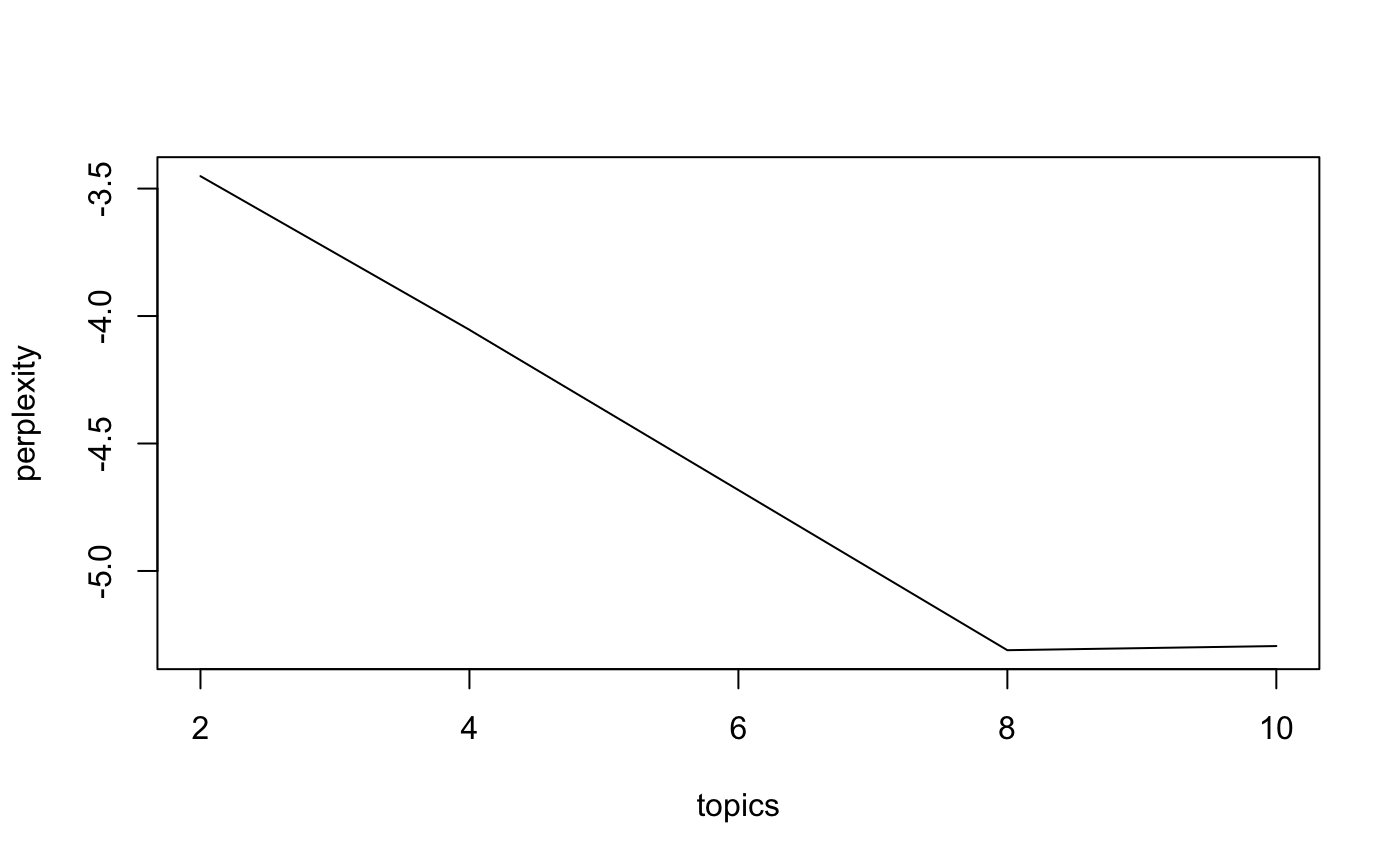
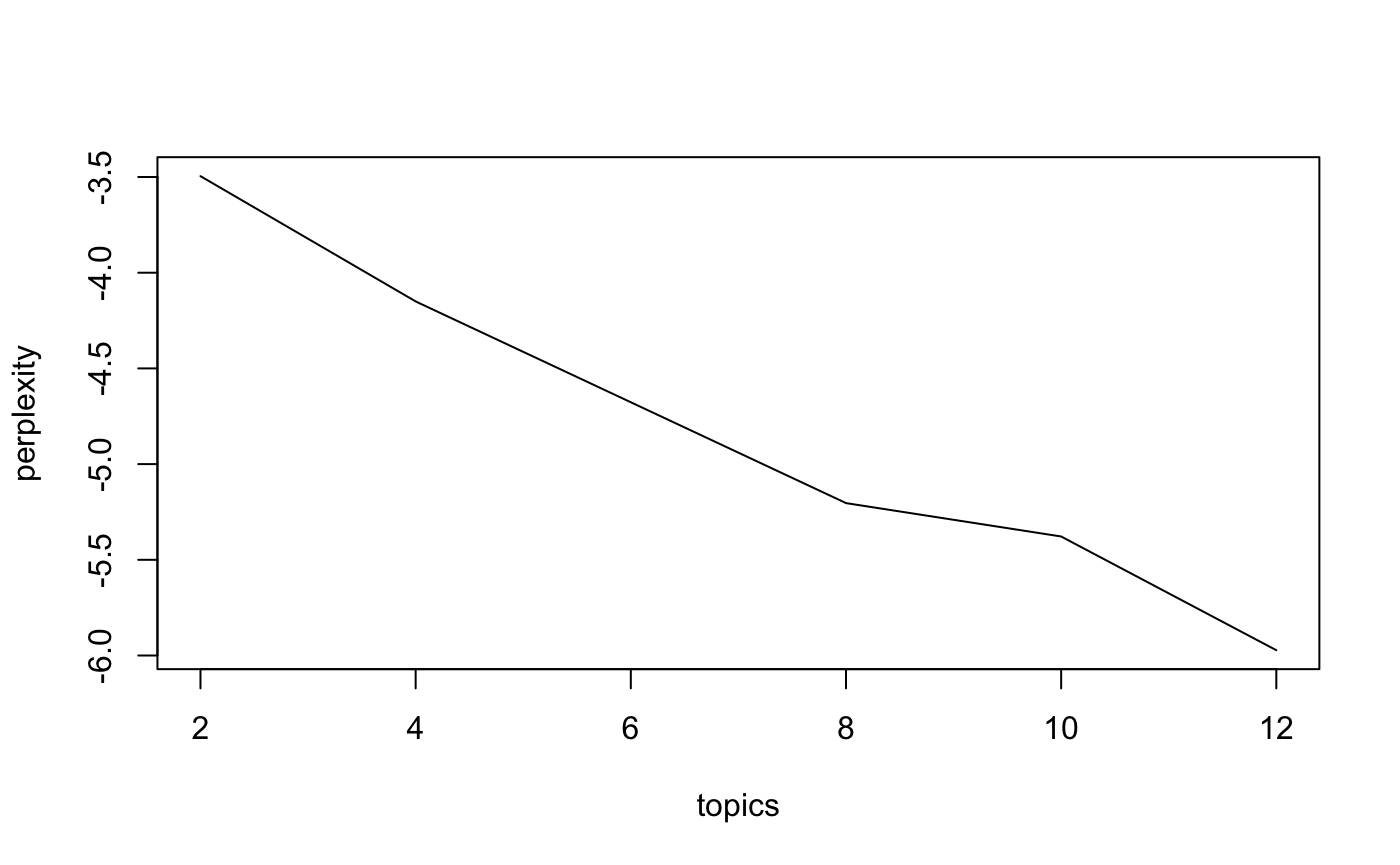
rebuilt site

diff --git a/docs/articles/coherence.html b/docs/articles/coherence.html
@@ -183,7 +183,7 @@
 <pre class="sourceCode r" id="cb3"><code class="sourceCode r"><a class="sourceLine" id="cb3-1" data-line-number="1">good_cm &lt;-<span class="st"> </span><span class="kw"><a href="../reference/topics.html">model_coherence</a></span>(<span class="dt">model =</span> good_lda_model, <span class="dt">corpus =</span> corpus_tfidf, <span class="dt">dictionary =</span> dictionary, <span class="dt">coherence =</span> <span class="st">'u_mass'</span>)</a>
 <a class="sourceLine" id="cb3-2" data-line-number="2">bad_cm &lt;-<span class="st"> </span><span class="kw"><a href="../reference/topics.html">model_coherence</a></span>(<span class="dt">model =</span> bad_lda_model, <span class="dt">corpus =</span> corpus_tfidf, <span class="dt">dictionary =</span> dictionary, <span class="dt">coherence =</span> <span class="st">'u_mass'</span>)</a></code></pre>
 <pre class="sourceCode r" id="cb4"><code class="sourceCode r"><a class="sourceLine" id="cb4-1" data-line-number="1">good_cm<span class="op">$</span><span class="kw">get_coherence</span>()</a>
-<a class="sourceLine" id="cb4-2" data-line-number="2"><span class="co">#&gt; -14.69227234932784</span></a>
+<a class="sourceLine" id="cb4-2" data-line-number="2"><span class="co">#&gt; -14.65541188495437</span></a>
 <a class="sourceLine" id="cb4-3" data-line-number="3">bad_cm<span class="op">$</span><span class="kw">get_coherence</span>()</a>
 <a class="sourceLine" id="cb4-4" data-line-number="4"><span class="co">#&gt; -14.669541729630868</span></a></code></pre>
 </div>
@@ -234,7 +234,7 @@ if(typeof(LDAvis) !== "undefined"){
          });
 }
 </script><pre class="sourceCode r" id="cb6"><code class="sourceCode r"><a class="sourceLine" id="cb6-1" data-line-number="1">good_cm<span class="op">$</span><span class="kw">get_coherence</span>()</a>
-<a class="sourceLine" id="cb6-2" data-line-number="2"><span class="co">#&gt; -14.69227234932784</span></a>
+<a class="sourceLine" id="cb6-2" data-line-number="2"><span class="co">#&gt; -14.65541188495437</span></a>
 <a class="sourceLine" id="cb6-3" data-line-number="3">bad_cm<span class="op">$</span><span class="kw">get_coherence</span>()</a>
 <a class="sourceLine" id="cb6-4" data-line-number="4"><span class="co">#&gt; -14.669541729630868</span></a></code></pre>
 </div>
@@ -244,14 +244,54 @@ if(typeof(LDAvis) !== "undefined"){
 <pre class="sourceCode r" id="cb7"><code class="sourceCode r"><a class="sourceLine" id="cb7-1" data-line-number="1">good_cm &lt;-<span class="st"> </span><span class="kw"><a href="../reference/topics.html">model_coherence</a></span>(<span class="dt">model =</span> good_lda_model, <span class="dt">texts =</span> texts, <span class="dt">dictionary =</span> dictionary, <span class="dt">coherence =</span> <span class="st">'c_v'</span>)</a>
 <a class="sourceLine" id="cb7-2" data-line-number="2">bad_cm &lt;-<span class="st"> </span><span class="kw"><a href="../reference/topics.html">model_coherence</a></span>(<span class="dt">model =</span> bad_lda_model, <span class="dt">texts =</span> texts, <span class="dt">dictionary =</span> dictionary, <span class="dt">coherence =</span> <span class="st">'c_v'</span>)</a></code></pre>
 <pre class="sourceCode r" id="cb8"><code class="sourceCode r"><a class="sourceLine" id="cb8-1" data-line-number="1">good_cm<span class="op">$</span><span class="kw">get_coherence</span>()</a>
-<a class="sourceLine" id="cb8-2" data-line-number="2"><span class="co">#&gt; 0.3838413553737203</span></a>
+<a class="sourceLine" id="cb8-2" data-line-number="2"><span class="co">#&gt; 0.38384135537372027</span></a>
 <a class="sourceLine" id="cb8-3" data-line-number="3">bad_cm<span class="op">$</span><span class="kw">get_coherence</span>()</a>
 <a class="sourceLine" id="cb8-4" data-line-number="4"><span class="co">#&gt; 0.38384135537372027</span></a></code></pre>
-</div>
-<div id="conclusion" class="section level2">
-<h2 class="hasAnchor">
-<a href="#conclusion" class="anchor"></a>Conclusion</h2>
 <p>Hence as we can see, the <code>u_mass</code> and <code>c_v</code> coherence for the good LDA model is much more (better) than that for the bad LDA model. This is because, simply, the good LDA model usually comes up with better topics that are more human interpretable. The <code>bad_lda_model</code> however fails to decipher between these two topics and comes up with topics which are not clear to a human. The <code>u_mass</code> and <code>c_v</code> topic coherences capture this wonderfully by giving the interpretability of these topics a number as we can see above. Hence this coherence measure can be used to compare difference topic models based on their human-interpretability.</p>
+<p>## Map</p>
+<p>You can also apply the <code>model_coherence</code> to multiple models at once using <code>map_coherence</code>.</p>
+<pre class="sourceCode r" id="cb9"><code class="sourceCode r"><a class="sourceLine" id="cb9-1" data-line-number="1"><span class="co"># create a model collection</span></a>
+<a class="sourceLine" id="cb9-2" data-line-number="2">models &lt;-<span class="st"> </span><span class="kw"><a href="https://www.rdocumentation.org/packages/base/topics/list">list</a></span>(good_lda_model, bad_lda_model)</a>
+<a class="sourceLine" id="cb9-3" data-line-number="3">(model_collection &lt;-<span class="st"> </span><span class="kw"><a href="../reference/map_model.html">as_model_collection</a></span>(models))</a>
+<a class="sourceLine" id="cb9-4" data-line-number="4"><span class="co">#&gt; ℹ A collection of 2 models.</span></a>
+<a class="sourceLine" id="cb9-5" data-line-number="5"></a>
+<a class="sourceLine" id="cb9-6" data-line-number="6"><span class="co"># compute topic coherence</span></a>
+<a class="sourceLine" id="cb9-7" data-line-number="7">model_collection &lt;-<span class="st"> </span><span class="kw"><a href="../reference/map_coherence.html">map_coherence</a></span>(model_collection, <span class="dt">corpus =</span> corpus_tfidf, <span class="dt">dictionary =</span> dictionary, <span class="dt">coherence =</span> <span class="st">'u_mass'</span>)</a>
+<a class="sourceLine" id="cb9-8" data-line-number="8"><span class="kw"><a href="../reference/map_coherence.html">get_coherence_data</a></span>(model_collection)</a>
+<a class="sourceLine" id="cb9-9" data-line-number="9"><span class="co">#&gt; # A tibble: 2 x 3</span></a>
+<a class="sourceLine" id="cb9-10" data-line-number="10"><span class="co">#&gt;   topics coherence coherence_model</span></a>
+<a class="sourceLine" id="cb9-11" data-line-number="11"><span class="co">#&gt;    &lt;int&gt;     &lt;dbl&gt; &lt;list&gt;         </span></a>
+<a class="sourceLine" id="cb9-12" data-line-number="12"><span class="co">#&gt; 1      2     -14.7 &lt;gns...CM&gt;     </span></a>
+<a class="sourceLine" id="cb9-13" data-line-number="13"><span class="co">#&gt; 2     10     -14.7 &lt;gns...CM&gt;</span></a></code></pre>
+</div>
+<div id="workflow" class="section level2">
+<h2 class="hasAnchor">
+<a href="#workflow" class="anchor"></a>Workflow</h2>
+<p>In the real world you will likely use the <code>map_*</code> functions to run and assess multiple models at once.</p>
+<pre class="sourceCode r" id="cb10"><code class="sourceCode r"><a class="sourceLine" id="cb10-1" data-line-number="1">models &lt;-<span class="st"> </span><span class="kw"><a href="../reference/map_model.html">map_model</a></span>(</a>
+<a class="sourceLine" id="cb10-2" data-line-number="2">  <span class="dt">num_topics =</span> <span class="kw"><a href="https://www.rdocumentation.org/packages/base/topics/c">c</a></span>(<span class="dv">2</span>, <span class="dv">4</span>, <span class="dv">8</span>, <span class="dv">10</span>),</a>
+<a class="sourceLine" id="cb10-3" data-line-number="3">  <span class="dt">corpus =</span> corpus_tfidf, </a>
+<a class="sourceLine" id="cb10-4" data-line-number="4">  <span class="dt">id2word =</span> dictionary</a>
+<a class="sourceLine" id="cb10-5" data-line-number="5">) </a>
+<a class="sourceLine" id="cb10-6" data-line-number="6"></a>
+<a class="sourceLine" id="cb10-7" data-line-number="7">models &lt;-<span class="st"> </span><span class="kw"><a href="../reference/map_coherence.html">map_coherence</a></span>(models, <span class="dt">corpus =</span> corpus_tfidf, <span class="dt">dictionary =</span> dictionary, <span class="dt">coherence =</span> <span class="st">'u_mass'</span>)</a>
+<a class="sourceLine" id="cb10-8" data-line-number="8"></a>
+<a class="sourceLine" id="cb10-9" data-line-number="9"><span class="kw"><a href="../reference/map_coherence.html">get_coherence_data</a></span>(models)</a>
+<a class="sourceLine" id="cb10-10" data-line-number="10"><span class="co">#&gt; # A tibble: 4 x 3</span></a>
+<a class="sourceLine" id="cb10-11" data-line-number="11"><span class="co">#&gt;   topics coherence coherence_model</span></a>
+<a class="sourceLine" id="cb10-12" data-line-number="12"><span class="co">#&gt;    &lt;int&gt;     &lt;dbl&gt; &lt;list&gt;         </span></a>
+<a class="sourceLine" id="cb10-13" data-line-number="13"><span class="co">#&gt; 1      2     -14.7 &lt;gns...CM&gt;     </span></a>
+<a class="sourceLine" id="cb10-14" data-line-number="14"><span class="co">#&gt; 2      4     -14.7 &lt;gns...CM&gt;     </span></a>
+<a class="sourceLine" id="cb10-15" data-line-number="15"><span class="co">#&gt; 3      8     -14.7 &lt;gns...CM&gt;     </span></a>
+<a class="sourceLine" id="cb10-16" data-line-number="16"><span class="co">#&gt; 4     10     -14.7 &lt;gns...CM&gt;</span></a>
+<a class="sourceLine" id="cb10-17" data-line-number="17"><span class="kw"><a href="../reference/map_model.html">get_perplexity_data</a></span>(models)</a>
+<a class="sourceLine" id="cb10-18" data-line-number="18"><span class="co">#&gt; # A tibble: 4 x 3</span></a>
+<a class="sourceLine" id="cb10-19" data-line-number="19"><span class="co">#&gt;   topics perplexity model     </span></a>
+<a class="sourceLine" id="cb10-20" data-line-number="20"><span class="co">#&gt;    &lt;int&gt;      &lt;dbl&gt; &lt;list&gt;    </span></a>
+<a class="sourceLine" id="cb10-21" data-line-number="21"><span class="co">#&gt; 1      2      -3.51 &lt;gns...LM&gt;</span></a>
+<a class="sourceLine" id="cb10-22" data-line-number="22"><span class="co">#&gt; 2      4      -3.88 &lt;gns...LM&gt;</span></a>
+<a class="sourceLine" id="cb10-23" data-line-number="23"><span class="co">#&gt; 3      8      -5.15 &lt;gns...LM&gt;</span></a>
+<a class="sourceLine" id="cb10-24" data-line-number="24"><span class="co">#&gt; 4     10      -5.43 &lt;gns...LM&gt;</span></a></code></pre>
 </div>
   </div>
 
@@ -266,7 +306,7 @@ if(typeof(LDAvis) !== "undefined"){
       <li><a href="#u_mass-coherence">U_Mass Coherence</a></li>
       <li><a href="#visualise">Visualise</a></li>
       <li><a href="#using-c_v-coherence">Using C_V coherence</a></li>
-      <li><a href="#conclusion">Conclusion</a></li>
+      <li><a href="#workflow">Workflow</a></li>
       </ul>
 </div>
       </div>

diff --git a/docs/articles/hyperparameters.html b/docs/articles/hyperparameters.html
@@ -135,6 +135,7 @@
 
     
     
+<p>Note that there is no universal way to assess the best number of topics (<code>num_topics</code>) to fit a set of document.</p>
 <div id="preprocess" class="section level2">
 <h2 class="hasAnchor">
 <a href="#preprocess" class="anchor"></a>Preprocess</h2>
@@ -157,7 +158,7 @@
 <a href="#tune" class="anchor"></a>Tune</h2>
 <p>We can run multiple Latent Dirichlet Allocation models given different number of topics then assess which is best using the perplexity score.</p>
 <pre class="sourceCode r" id="cb2"><code class="sourceCode r"><a class="sourceLine" id="cb2-1" data-line-number="1">models &lt;-<span class="st"> </span><span class="kw"><a href="../reference/map_model.html">map_model</a></span>(</a>
-<a class="sourceLine" id="cb2-2" data-line-number="2">  <span class="dt">num_topics =</span> <span class="kw"><a href="https://www.rdocumentation.org/packages/base/topics/c">c</a></span>(<span class="dv">2</span>, <span class="dv">4</span>, <span class="dv">8</span>, <span class="dv">10</span>),</a>
+<a class="sourceLine" id="cb2-2" data-line-number="2">  <span class="dt">num_topics =</span> <span class="kw"><a href="https://www.rdocumentation.org/packages/base/topics/c">c</a></span>(<span class="dv">2</span>, <span class="dv">4</span>, <span class="dv">8</span>, <span class="dv">10</span>, <span class="dv">12</span>),</a>
 <a class="sourceLine" id="cb2-3" data-line-number="3">  <span class="dt">corpus =</span> corpus_tfidf, </a>
 <a class="sourceLine" id="cb2-4" data-line-number="4">  <span class="dt">id2word =</span> dictionary</a>
 <a class="sourceLine" id="cb2-5" data-line-number="5">) </a>
@@ -165,14 +166,14 @@
 <a class="sourceLine" id="cb2-7" data-line-number="7"><span class="kw"><a href="https://www.rdocumentation.org/packages/graphics/topics/plot">plot</a></span>(models)</a></code></pre>
 <p><img src="hyperparameters_files/figure-html/unnamed-chunk-3-1.png" width="700"></p>
 <pre class="sourceCode r" id="cb3"><code class="sourceCode r"><a class="sourceLine" id="cb3-1" data-line-number="1"><span class="kw"><a href="../reference/map_model.html">get_perplexity_data</a></span>(models)</a>
-<a class="sourceLine" id="cb3-2" data-line-number="2"><span class="co">#&gt; # A tibble: 4 x 3</span></a>
-<a class="sourceLine" id="cb3-3" data-line-number="3"><span class="co">#&gt;   topics perplexity models    </span></a>
-<a class="sourceLine" id="cb3-4" data-line-number="4"><span class="co">#&gt;    &lt;dbl&gt;      &lt;dbl&gt; &lt;list&gt;    </span></a>
-<a class="sourceLine" id="cb3-5" data-line-number="5"><span class="co">#&gt; 1      2      -3.45 &lt;gns...LM&gt;</span></a>
-<a class="sourceLine" id="cb3-6" data-line-number="6"><span class="co">#&gt; 2      4      -4.05 &lt;gns...LM&gt;</span></a>
-<a class="sourceLine" id="cb3-7" data-line-number="7"><span class="co">#&gt; 3      8      -5.31 &lt;gns...LM&gt;</span></a>
-<a class="sourceLine" id="cb3-8" data-line-number="8"><span class="co">#&gt; 4     10      -5.29 &lt;gns...LM&gt;</span></a></code></pre>
-<p>Perplexity is lowest at <code>num_topics = 2</code>: this is the best fit.</p>
+<a class="sourceLine" id="cb3-2" data-line-number="2"><span class="co">#&gt; # A tibble: 5 x 3</span></a>
+<a class="sourceLine" id="cb3-3" data-line-number="3"><span class="co">#&gt;   topics perplexity model     </span></a>
+<a class="sourceLine" id="cb3-4" data-line-number="4"><span class="co">#&gt;    &lt;int&gt;      &lt;dbl&gt; &lt;list&gt;    </span></a>
+<a class="sourceLine" id="cb3-5" data-line-number="5"><span class="co">#&gt; 1      2      -3.50 &lt;gns...LM&gt;</span></a>
+<a class="sourceLine" id="cb3-6" data-line-number="6"><span class="co">#&gt; 2      4      -4.15 &lt;gns...LM&gt;</span></a>
+<a class="sourceLine" id="cb3-7" data-line-number="7"><span class="co">#&gt; 3      8      -5.20 &lt;gns...LM&gt;</span></a>
+<a class="sourceLine" id="cb3-8" data-line-number="8"><span class="co">#&gt; 4     10      -5.38 &lt;gns...LM&gt;</span></a>
+<a class="sourceLine" id="cb3-9" data-line-number="9"><span class="co">#&gt; 5     12      -5.97 &lt;gns...LM&gt;</span></a></code></pre>
 </div>
   </div>
 
